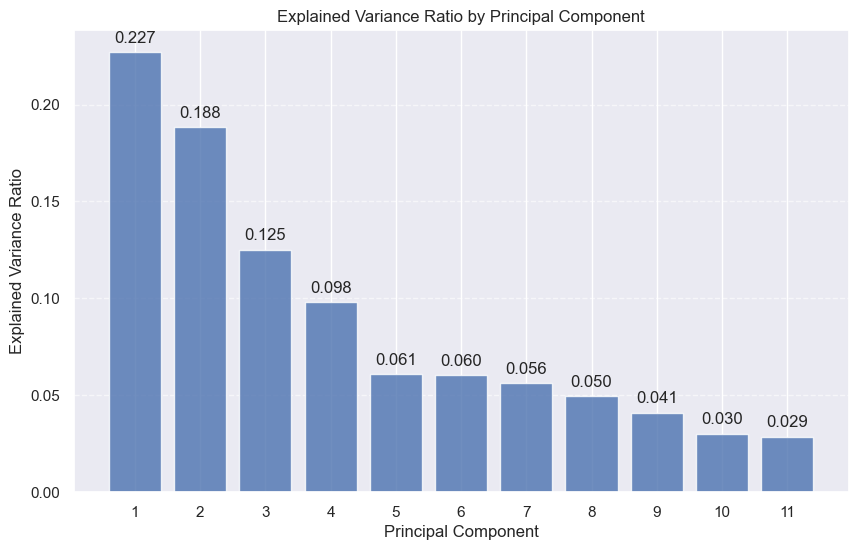
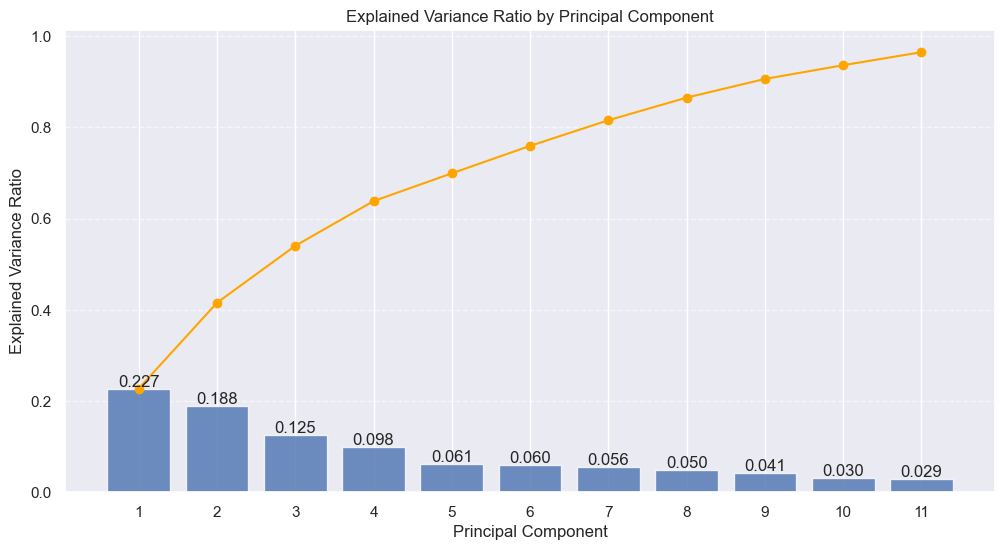
new plots

diff --git a/src/modeling_utils.py b/src/modeling_utils.py
@@ -302,10 +302,10 @@ def pcr_regression(X, y, cv=5):
     })
     print('Explained Variance Ratios')
     print(explained_variance_df)
+    cumulative_variance_ratio = np.cumsum(explained_variance_ratio)
 
-    # Plot the explained variance ratio
-    plt.figure(figsize=(10, 6))
-    # plot
+
+    # combined plot
     plt.bar(range(1, len(explained_variance_ratio) + 1), 
             explained_variance_ratio, alpha=0.8)
     # annot
@@ -319,7 +319,31 @@ def pcr_regression(X, y, cv=5):
     plt.savefig('figs/PCR_explained_variance', bbox_inches='tight')
     plt.show()
 
-    cumulative_variance_ratio = np.cumsum(explained_variance_ratio)
+    fig, ax1 = plt.subplots(figsize=(10, 6))
+
+    # plot the explained variance ratio as bars on the first axis
+    ax1.bar(range(1, len(explained_variance_ratio) + 1), 
+            explained_variance_ratio, 
+            alpha=0.8)
+    for i, value in enumerate(explained_variance_ratio):
+        ax1.text(i+1, (abs(value) + 0.005), '{:.3f}'.format(value), ha='center')
+    ax1.set_xlabel('Principal Component')
+    ax1.set_ylabel('Explained Variance Ratio')
+    ax1.set_title('Explained Variance Ratio by Principal Component')
+    ax1.grid(axis='y', 
+             linestyle='--', 
+             alpha=0.6)
+    ax1.set_xticks(range(1, len(explained_variance_ratio) + 1))
+    # create a twin axis sharing the same x-axis
+    ax2 = ax1.twinx()
+    ax2.plot(range(1, len(cumulative_variance_ratio) + 1), 
+             cumulative_variance_ratio, 
+             marker='o', 
+             color='orange')
+    ax2.set_ylabel('Cumulative Explained Variance Ratio')
+    plt.savefig('figs/PCR_explained_variance_combined', bbox_inches='tight')
+    plt.show()
+
 
     # plot the cumulative explained variance
     plt.plot(range(1, len(cumulative_variance_ratio) + 1), cumulative_variance_ratio, marker='o')
